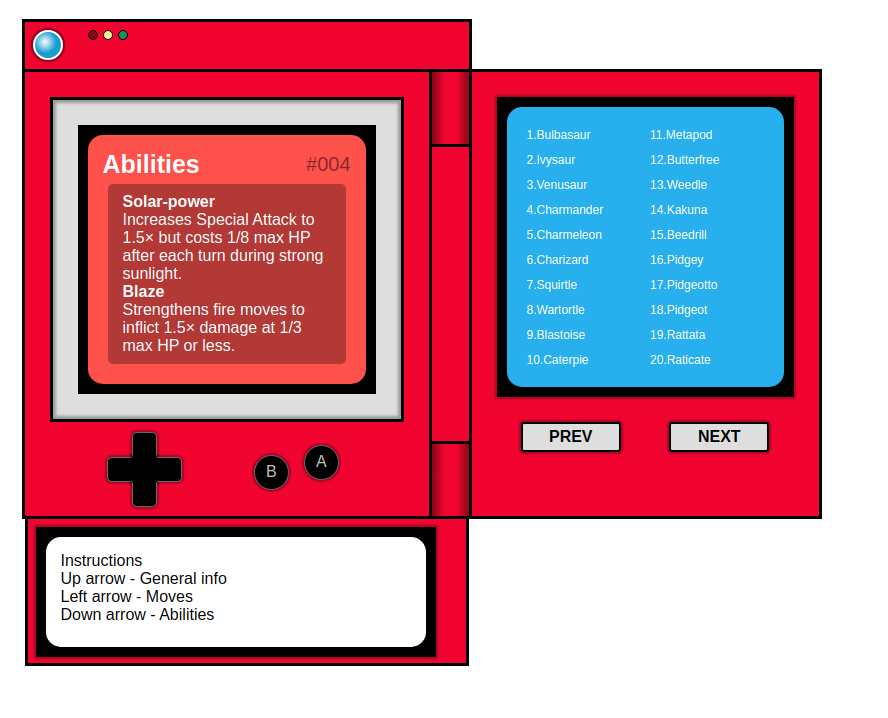
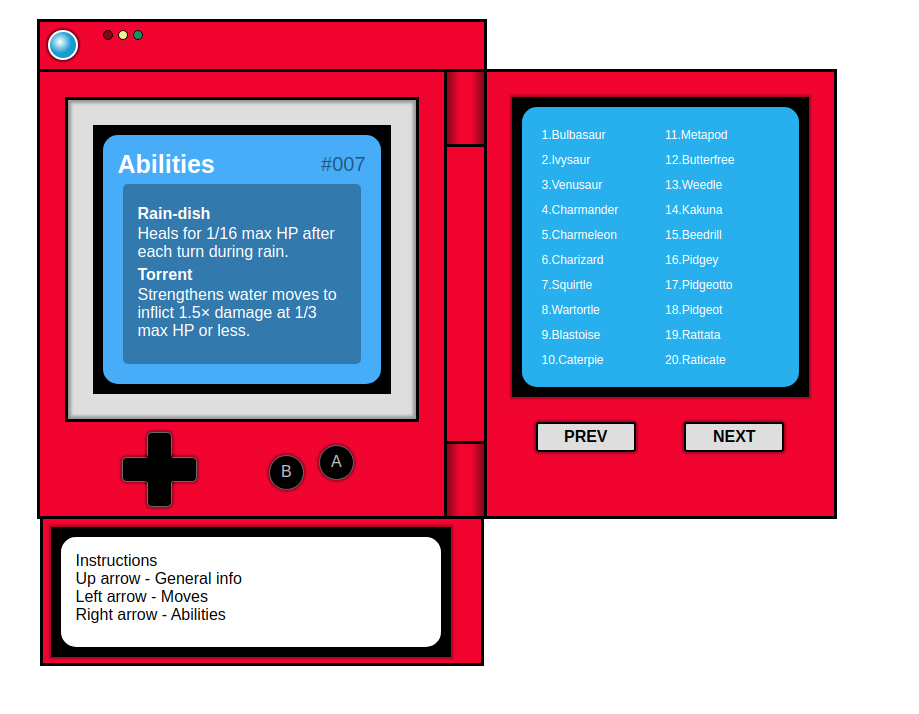
Corrected Images

Changed region(s): [[0.0, 0.0, 0.9426, 0.9552], [0.4257, 0.1232, 0.4561, 0.1541]]

diff --git a/app.js b/app.js
@@ -12,7 +12,7 @@ const pokeHeight = document.querySelector('.poke-height');
 const pokeListItems = document.querySelectorAll('.list-item');
 const prevButton = document.querySelector('.left-button');
 const nextButton = document.querySelector('.right-button');
-const downButton = document.querySelector('.d-pad__cell.bottom');
+const rightButton = document.querySelector('.d-pad__cell.right');
 const upButton = document.querySelector('.d-pad__cell.top');
 const leftButton = document.querySelector('.d-pad__cell.left');
 const screenImage = document.querySelector('.screen__image');
@@ -253,7 +253,7 @@ const handleListItemClick = (e) => {
   handleUpArrowClick();
 };
 
-const handleDownArrowClick = (e) => {
+const handleRightArrowClick = (e) => {
   screenImage.classList.add('hide');
   description.classList.add('hide');
   abilities.classList.remove('hide');
@@ -291,7 +291,7 @@ const handleLeftButtonClick = (e) => {
 // adding event listeners
 prevButton.addEventListener('click', handlePrevButtonClick);
 nextButton.addEventListener('click', handleNextButtonClick);
-downButton.addEventListener('click', handleDownArrowClick);
+rightButton.addEventListener('click', handleRightArrowClick);
 upButton.addEventListener('click', handleUpArrowClick);
 leftButton.addEventListener('click', handleLeftButtonClick);
 

diff --git a/index.html b/index.html
@@ -96,7 +96,7 @@
                 <p>Instructions</p>
                 <p>Up arrow - General info</p>
                 <p>Left arrow - Moves</p>
-                <p> Down arrow - Abilities</p>
+                <p> Right arrow - Abilities</p>
               </span>
           
             </div>
